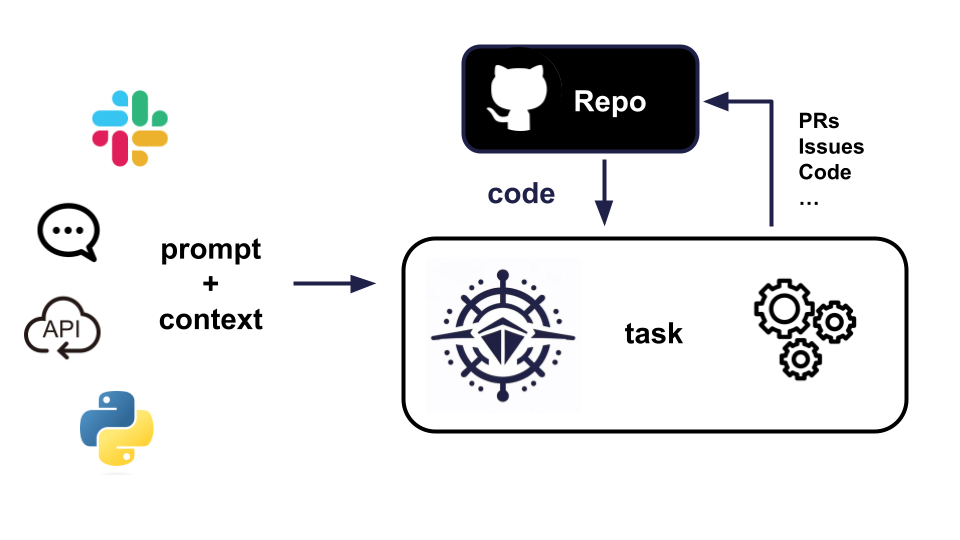
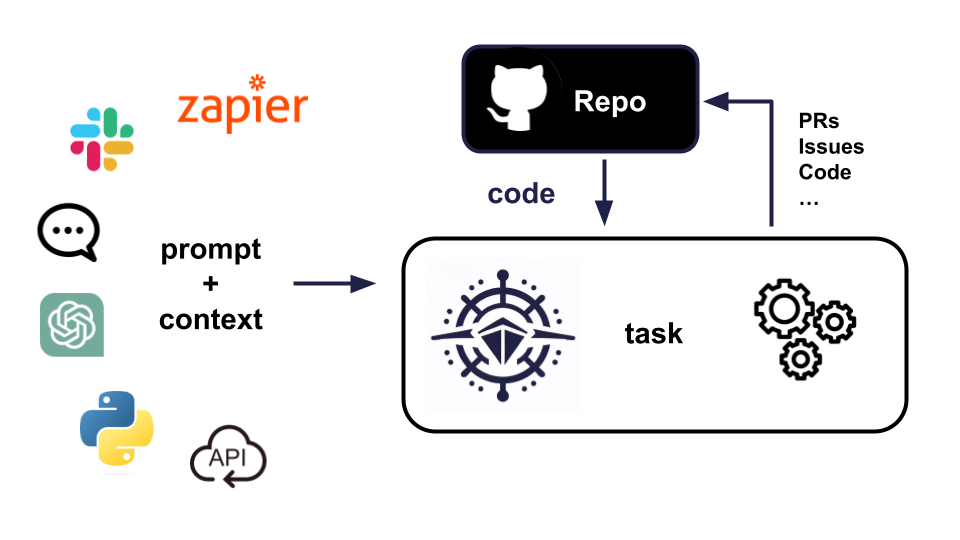
Change documentation to emphasize platform-oriented appraoch (#68)

Changed region(s): [[0.0625, 0.1185, 0.3125, 0.3259], [0.0, 0.5333, 0.125, 0.6815], [0.1875, 0.7704, 0.2812, 0.9185]]

diff --git a/README.md b/README.md
@@ -12,19 +12,21 @@
 
 # 🤖 PR Pilot
 
-An open source platform that enables GitHub developers to trigger small, AI-driven development tasks in their repositories from anywhere.
+A platform that enables GitHub developers to trigger AI-driven development tasks in their repositories from anywhere.
 
 ![PR Pilot](docs/source/img/overview.png)
 
 
-### 🌟 Automate Small Tasks with Confidence
+### 🌟 Supercharge Your GitHub Workflow
 
-* 🪄 [Quickly Generate Intial Implemenation / Fixes for Issues](https://github.com/PR-Pilot-AI/pr-pilot/issues/39#issuecomment-2028989177)
-* 🌐 [Automate Code Changes in PRs](https://docs.pr-pilot.ai/how_it_works.html#collaborate)
-* 📊 [Monitor PR Pilot in the Dashboard](https://docs.pr-pilot.ai/how_it_works.html#monitor)
-* 🤔 [Ask questions about your issue/PR](https://docs.pr-pilot.ai/how_it_works.html#have-a-conversation)
-* ⏪ [Roll Back Changes](https://docs.pr-pilot.ai/how_it_works.html#rollback)
-* 🎓 [Teach It](https://docs.pr-pilot.ai/how_it_works.html#teach)
+* [x] 🪄 [Quickly Generate Intial Implemenation / Fixes for Issues](https://github.com/PR-Pilot-AI/pr-pilot/issues/39#issuecomment-2028989177)
+* [x] 🌐 [Automate Code Changes in PRs](https://docs.pr-pilot.ai/how_it_works.html#collaborate)
+* [x] 🤔 [Ask questions about your issue/PR](https://docs.pr-pilot.ai/how_it_works.html#have-a-conversation)
+* [x] 📝 [Generate Code Documentation](https://github.com/PR-Pilot-AI/pr-pilot/issues/51)
+* [ ] Create PRs based on ChatGPT Conversations
+* [ ] Create a Slack Bot for your Github Repo
+* [ ] Trigger Code Changes from Zapier Workflows
+* [ ] Create a New Task from a Python Script
 
 
 Check out the [Demo Issues & PRs](https://github.com/PR-Pilot-AI/pr-pilot/issues?q=label:demo+is:closed+). PR Pilot is actively involved in writing its own code! 

diff --git a/docs/source/vision.md b/docs/source/vision.md
@@ -42,13 +42,14 @@ Over multiple iterations and feedback from users, we've learned some important l
 
 ### Privacy Matters
 Developers are protective of their code - and rightly so. We aim for the highest standards of privacy:
-* **No persistence** - We never store code permanently. Every `/pilot` command is run in an ephemeral Docker container.
+* **No persistence** - We never store code permanently. Every task is run in an ephemeral Docker container.
 * **Minimal permissions** - You can enable/disable PR Pilot on a per-repository basis. It only has access to the repositories you allow it to access.
 
 ### Simplicity is Key
 We've learned that the simpler the interface, the more likely developers are to use it. By using Github issues
 and PRs as the user interface, we've made it easy for developers to interact with PR Pilot without leaving their familiar environment.
 
-## Keep the Flow
+
+### Keep the Flow
 Flow is a state of mind where you are fully immersed in a task. Switching between different tools and interfaces can break your flow.
 With PR Pilot, you can stay in the flow and get things done without interruptions.

diff --git a/docs/source/index.rst b/docs/source/index.rst
@@ -8,7 +8,7 @@ PR Pilot Documentation
 
 .. note:: PR Pilot is still in **early development**. Its future is shaped by your feedback. Please let us know what you think and what you would like to see next.
 
-PR Pilot is an AI collaborator for Github issues and pull requests. Once installed in your repository, you can use  `/pilot <command>` in any issue/PR comment to collaborate. PR Pilot will interpret the command in the context of your code and do research, answer questions or write code for you.
+PR Pilot is a platform that enables GitHub developers to trigger AI-driven development tasks in their repositories from anywhere.
 
 
 .. toctree::
@@ -21,7 +21,6 @@ PR Pilot is an AI collaborator for Github issues and pull requests. Once install
    examples
    vision
    roadmap
-   comparison
    pricing
    privacy_notice
    support

diff --git a/docs/source/roadmap.md b/docs/source/roadmap.md
@@ -8,12 +8,6 @@ This page roughly outlines the main goals we want to achieve in the near future.
 The quality of the results is a top priority. In order to be a useful 
 companion for developers, PR Pilot needs to be reliable and provide high-quality results. 
 
-## Improve the User Experience
-We want to make using PR Pilot as easy and intuitive as possible. This includes:
-* Providing an "Undo" functionality to quickly rollback changes you didn't want
-* More transparent error reporting in case something goes wrong
-* Better continuity of conversations across different issues and PRs
-
 ## Implement Continuous Learning
 As you use PR Pilot, it should be able to learn from your interactions and improve its performance over time, this includes:
 * Learning from the feedback you provide

diff --git a/docs/source/how_it_works.md b/docs/source/how_it_works.md
@@ -1,5 +1,9 @@
 # How it works
-**PR Pilot** behaves like any other user on GitHub. It reads and writes to issues and PRs, and communicates with you through comments.
+
+**PR Pilot** behaves like any other user on GitHub. It reads and writes to issues and PRs and can interact with your code.
+
+For now, you interact with it using a `/pilot` command in Github issue comments.
+In the future, you will be able to trigger tasks via the API or other integrations.
 
 
 ## First: Let's set expectations
